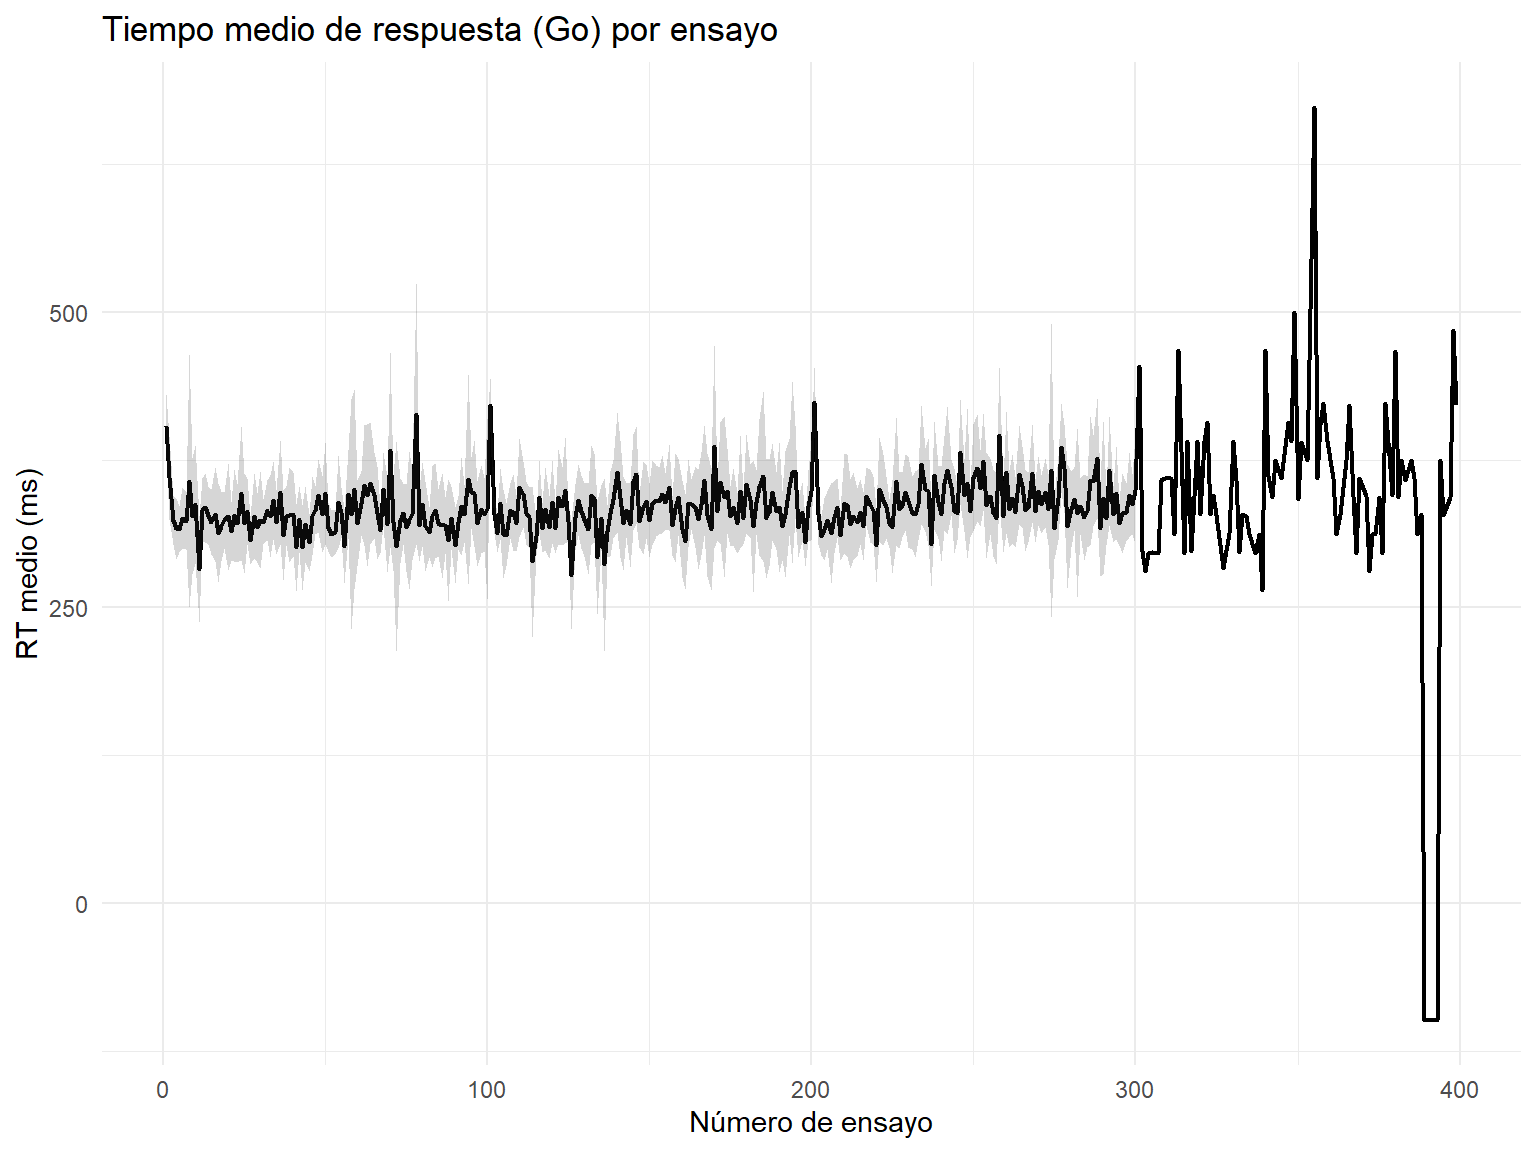
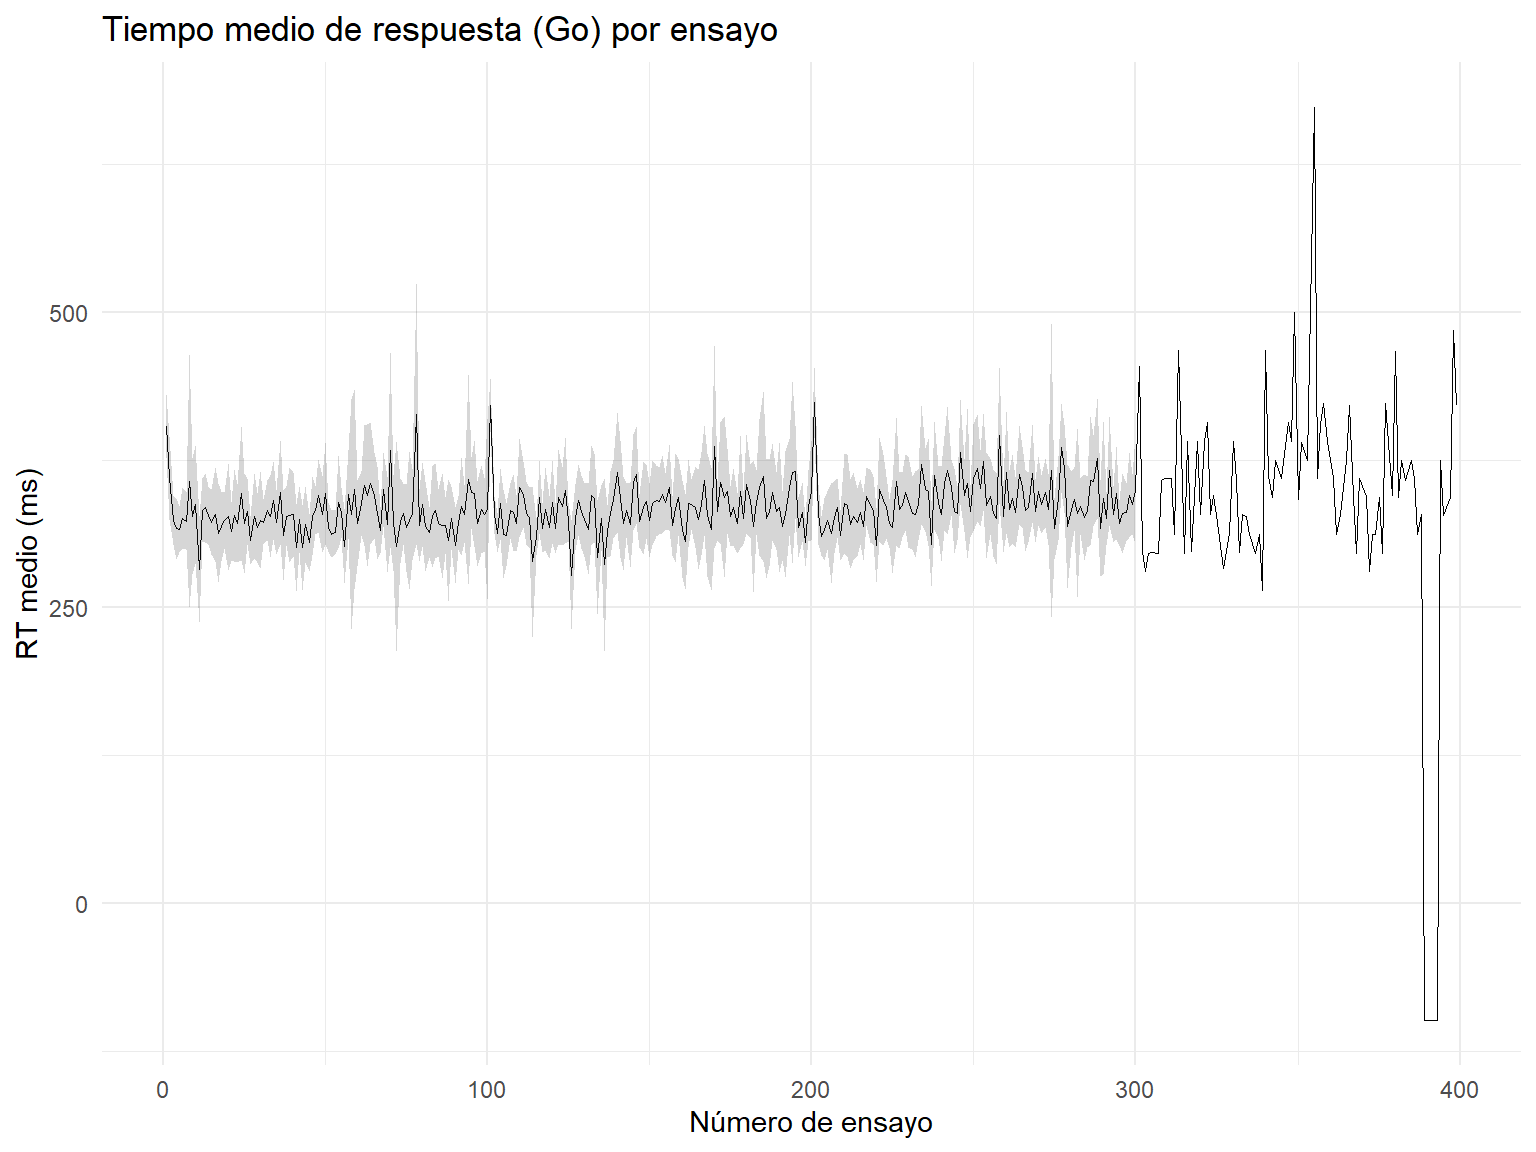
5

Changed region(s): [[0.0938, 0.1875, 0.9688, 0.5], [0.9062, 0.5625, 0.9375, 0.875]]

diff --git a/docs/Tarea1.html b/docs/Tarea1.html
@@ -371,7 +371,7 @@ pre > code.sourceCode > span > a:first-child::before { text-decoration: underlin
 <summary>Código</summary>
 <div class="sourceCode cell-code" id="cb5"><pre class="sourceCode r code-with-copy"><code class="sourceCode r"><span id="cb5-1"><a href="#cb5-1" aria-hidden="true" tabindex="-1"></a><span class="fu">ggplot</span>(data <span class="sc">%&gt;%</span> <span class="fu">filter</span>(est_label <span class="sc">==</span> <span class="st">"Go"</span>),</span>
 <span id="cb5-2"><a href="#cb5-2" aria-hidden="true" tabindex="-1"></a>       <span class="fu">aes</span>(<span class="at">x =</span> <span class="fu">as.integer</span>(trial_num), <span class="at">y =</span> rt)) <span class="sc">+</span></span>
-<span id="cb5-3"><a href="#cb5-3" aria-hidden="true" tabindex="-1"></a>  <span class="fu">stat_summary</span>(<span class="at">fun =</span> mean,      <span class="at">geom =</span> <span class="st">"line"</span>,  <span class="at">size =</span> <span class="fl">0.8</span>) <span class="sc">+</span></span>
+<span id="cb5-3"><a href="#cb5-3" aria-hidden="true" tabindex="-1"></a>  <span class="fu">stat_summary</span>(<span class="at">fun =</span> mean,      <span class="at">geom =</span> <span class="st">"line"</span>,  <span class="at">size =</span> <span class="fl">0.1</span>) <span class="sc">+</span></span>
 <span id="cb5-4"><a href="#cb5-4" aria-hidden="true" tabindex="-1"></a>  <span class="fu">stat_summary</span>(<span class="at">fun.data =</span> mean_cl_normal,</span>
 <span id="cb5-5"><a href="#cb5-5" aria-hidden="true" tabindex="-1"></a>               <span class="at">geom =</span> <span class="st">"ribbon"</span>, <span class="at">alpha =</span> <span class="fl">0.2</span>)  <span class="sc">+</span></span>
 <span id="cb5-6"><a href="#cb5-6" aria-hidden="true" tabindex="-1"></a>  <span class="fu">labs</span>(</span>
